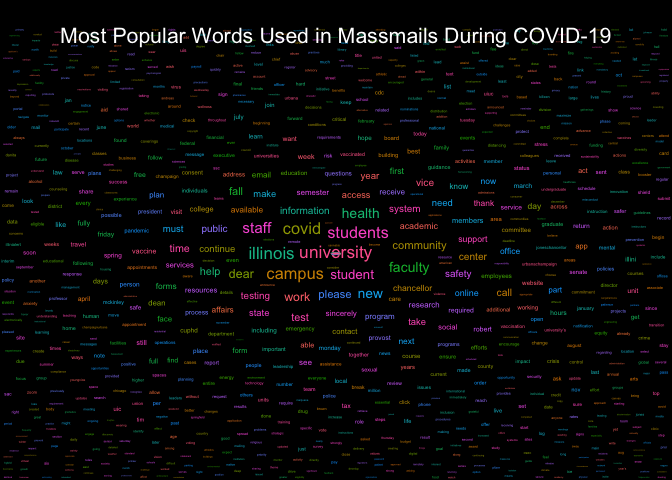
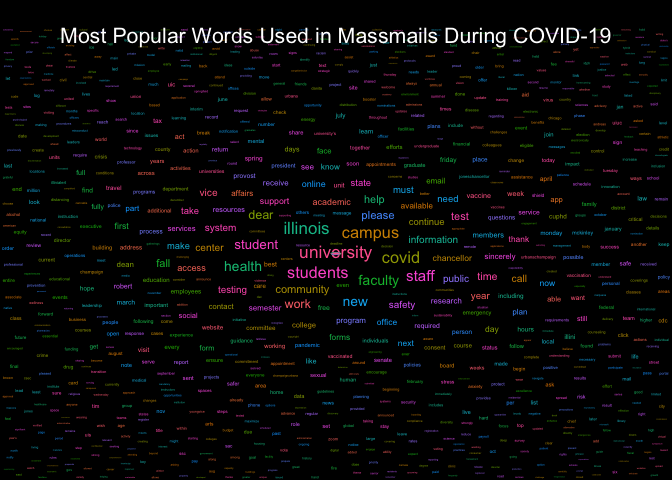
Re-build README.Rmd and Graphs

Changed region(s): [[0.0, 0.0625, 1.0, 1.0], [0.9688, 0.8438, 1.0, 0.875], [0.625, 0.0625, 0.6562, 0.0938]]

diff --git a/README.md b/README.md
@@ -17,7 +17,7 @@ The archive may be viewed here:
 
 <https://massmail.illinois.edu/massmailArchive>
 
-Data has **775** observations and **7** variables:
+Data has **776** observations and **7** variables:
 
 - `datetime`: Date and time when the email was sent in the form of
   `YYYY-MM-DD HMS` with either CDT or CST.
@@ -210,16 +210,16 @@ head(most_popular_words, 10) %>%
 
 | word       | freq |
 |:-----------|-----:|
-| university | 2159 |
-| students   | 1813 |
-| campus     | 1615 |
-| illinois   | 1440 |
+| university | 2162 |
+| students   | 1817 |
+| campus     | 1617 |
+| illinois   | 1448 |
 | covid      | 1070 |
-| student    | 1058 |
-| faculty    | 1051 |
-| community  |  999 |
-| health     |  996 |
-| staff      |  895 |
+| student    | 1059 |
+| faculty    | 1052 |
+| community  | 1000 |
+| health     |  998 |
+| staff      |  896 |
 
 #### Wordcloud
 
